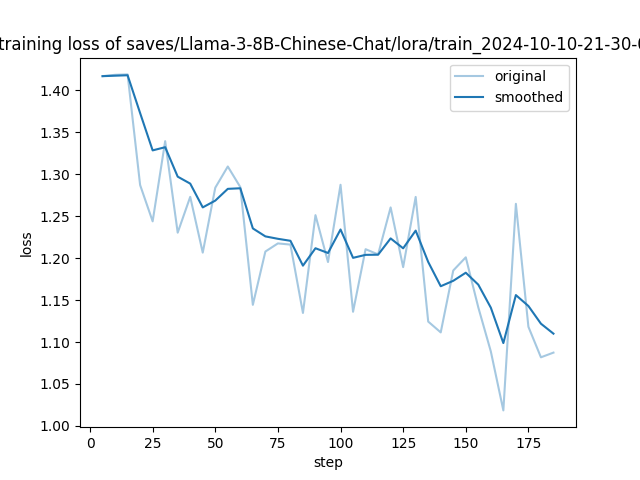
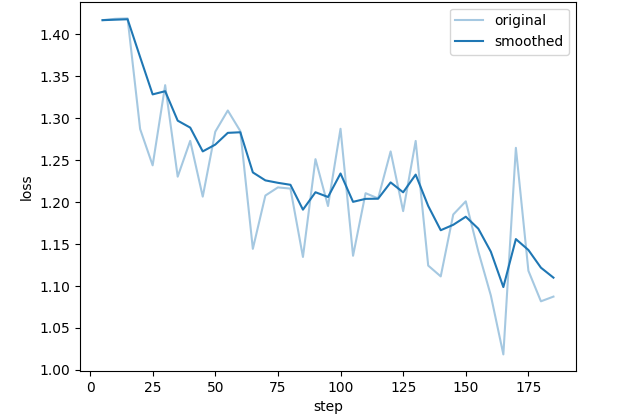
LLM

diff --git a/content/project/LLM微调/本地部署LLM详解.md b/content/project/LLM微调/本地部署LLM详解.md
@@ -13,7 +13,7 @@ share: false
 
 ## LLaMA-Factory 安装
 
-**这部分在LLaMA-Factory的文档里已有详细介绍，可直接参考：**https://llamafactory.readthedocs.io/zh-cn/latest/#
+**这部分在LLaMA-Factory的文档里已有详细介绍，可直接参考:** https://llamafactory.readthedocs.io/zh-cn/latest/#
 
 在安装 LLaMA-Factory 之前，确保安装了下列依赖:
 
